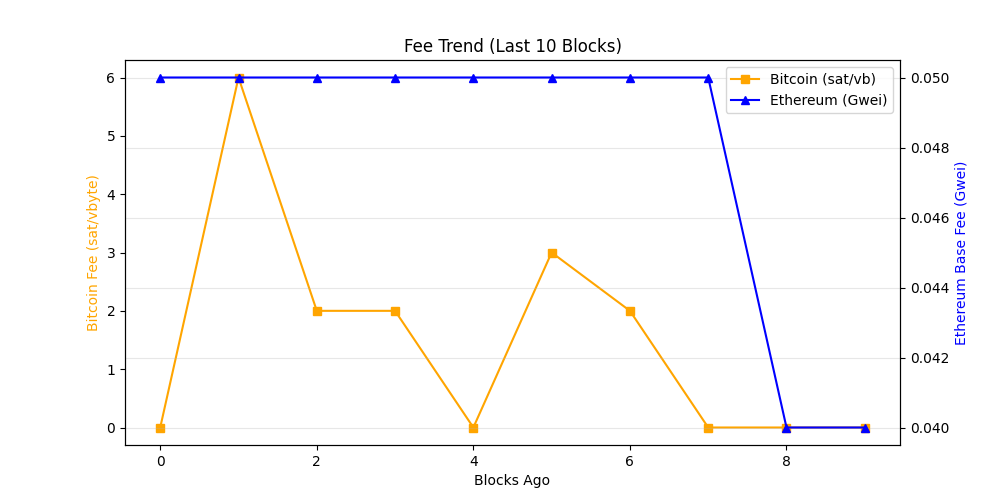
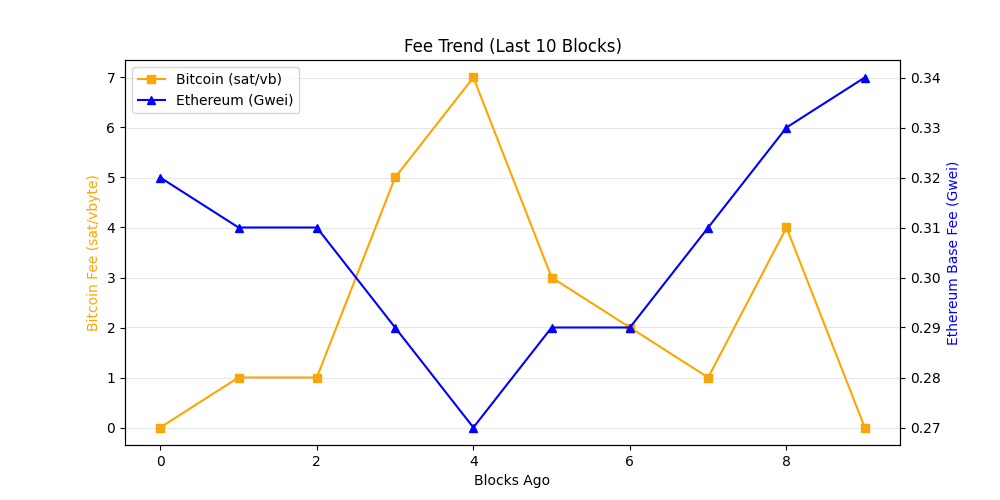
chore: update on-chain dashboard

diff --git a/README.md b/README.md
@@ -19,7 +19,7 @@ The README itself acts as the dashboard and is regenerated automatically on a 6 
 demonstrating a production-style, infrastructure-focused observability workflow rather
 than a traditional UI-driven approach.
 
-_Last updated: 2026-10-20 11:33 UTC_
+_Last updated: 2026-10-20 17:00 UTC_
 
 ## API Usage (GetBlock.io)
 - Calls used: **24**
@@ -27,8 +27,8 @@ _Last updated: 2026-10-20 11:33 UTC_
 ## Network Metrics
 | Chain | Block Height | TX Count | TPS (10 blk avg) | Block Util | Avg Fee |
 |------|-------------|----------|------------------|------------|---------|
-| Ethereum | 26233519 | 296 | 24.67 | 42.85% | 0.0 Gwei |
-| Bitcoin | 972312 | 6164 | 13.98 | 99.79% | N/A |
+| Ethereum | 26235151 | 357 | 29.75 | 62.7% | 0.3 Gwei |
+| Bitcoin | 972357 | 5357 | 1071.4 | 99.79% | N/A |
 
 ## Visuals
 ### Transactions Trend
@@ -43,7 +43,10 @@ _Last updated: 2026-10-20 11:33 UTC_
 ## Whale Alerts (latest block)
 - Transaction hashes are truncated for readability.
 - Full hashes are available in `dashboards/metrics.json`
-No whale-sized transfers detected in latest blocks.
+- Bitcoin | 295.57 BTC | `fb9b400c1e76…`
+- Bitcoin | 199.86 BTC | `c1b936ffe2dc…`
+- Bitcoin | 296.06 BTC | `ac23000bade1…`
+- Bitcoin | 102.37 BTC | `594226d8408e…`
 
 ## Run locally
 
